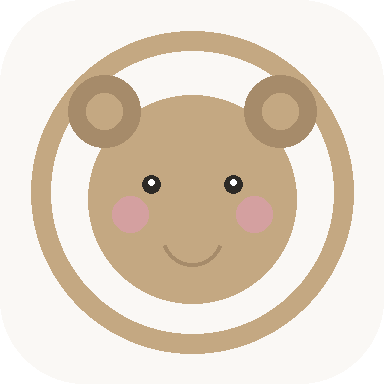
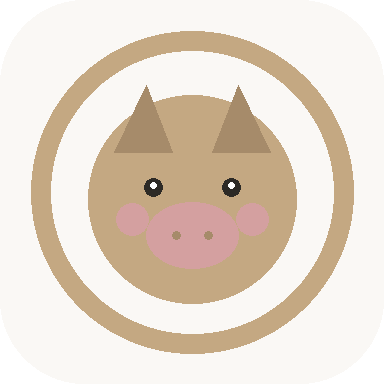
🐷 更名为猪猪育儿工作台 + 小猪图标
- 所有可见名称从奶咖育儿改为猪猪育儿
- 生成小猪主题PWA图标
- Service Worker缓存版本升级到v2

diff --git a/index.html b/index.html
@@ -7,8 +7,8 @@
   <meta name="description" content="2岁3个月男宝专属电子育儿工作台：喂养、早教、感统训练、每周复盘">
   <meta name="apple-mobile-web-app-capable" content="yes">
   <meta name="apple-mobile-web-app-status-bar-style" content="default">
-  <meta name="apple-mobile-web-app-title" content="奶咖育儿">
-  <title>奶咖育儿工作台 · 2岁3月专属</title>
+  <meta name="apple-mobile-web-app-title" content="猪猪育儿">
+  <title>猪猪育儿工作台 · 2岁3月专属</title>
   <link rel="manifest" href="manifest.json">
   <link rel="icon" type="image/png" href="icons/favicon-32x32.png">
   <link rel="apple-touch-icon" href="icons/apple-touch-icon.png">
@@ -20,7 +20,7 @@
   <!-- ==================== 顶部栏 ==================== -->
   <div class="topbar">
     <div class="topbar-inner">
-      <div class="topbar-logo">🧒 奶咖<span>育儿</span>工作台</div>
+      <div class="topbar-logo">🐷 猪猪<span>育儿</span>工作台</div>
       <div style="display:flex;align-items:center;gap:8px;">
         <span class="topbar-week" id="topbarWeek">第1周</span>
         <span class="topbar-date" id="topbarDate"></span>

diff --git a/js/app.js b/js/app.js
@@ -1,5 +1,5 @@
 // ============================================================
-//  奶咖育儿工作台 —— 核心逻辑
+//  猪猪育儿工作台 —— 核心逻辑
 //  localStorage 持久化 | 响应式 | 4周感统循环
 // ============================================================
 
@@ -947,7 +947,7 @@ function showHuaweiInstallGuide() {
           <div class="step-num">3</div>
           <div class="step-content">
             <strong>确认添加</strong>
-            <span>桌面出现「奶咖育儿」图标，点击即用</span>
+            <span>桌面出现「猪猪育儿」图标，点击即用</span>
           </div>
         </div>
       </div>

diff --git a/service-worker.js b/service-worker.js
@@ -1,8 +1,8 @@
 // ============================================================
-//  Service Worker —— 奶咖育儿工作台 PWA 离线缓存
+//  Service Worker —— 猪猪育儿工作台 PWA 离线缓存
 // ============================================================
 
-const CACHE_NAME = 'baby-dashboard-v1';
+const CACHE_NAME = 'baby-dashboard-v2';
 const CACHE_ASSETS = [
   './',
   './index.html',
